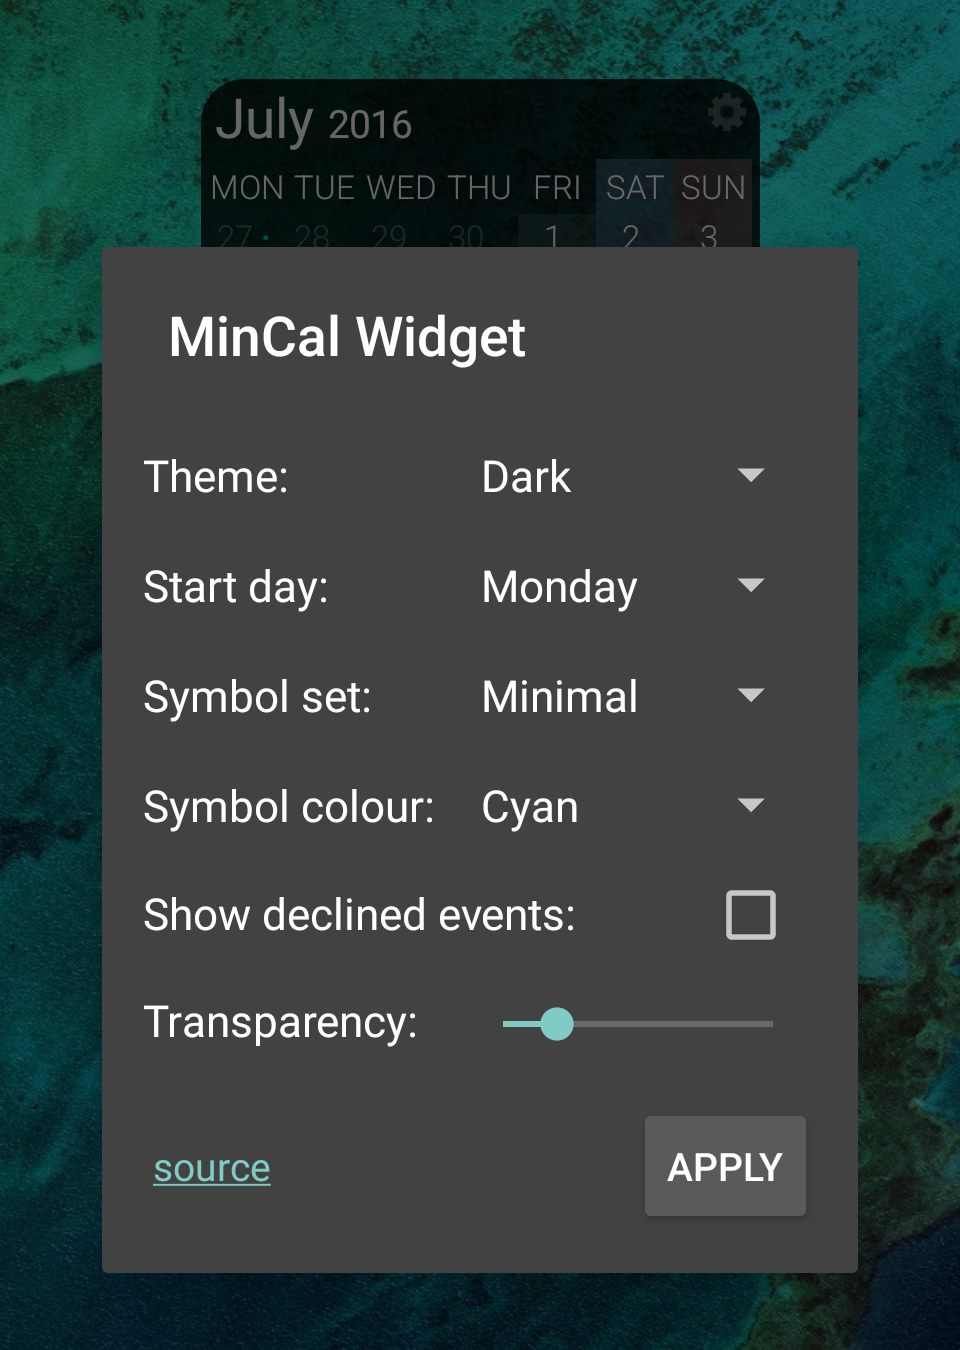
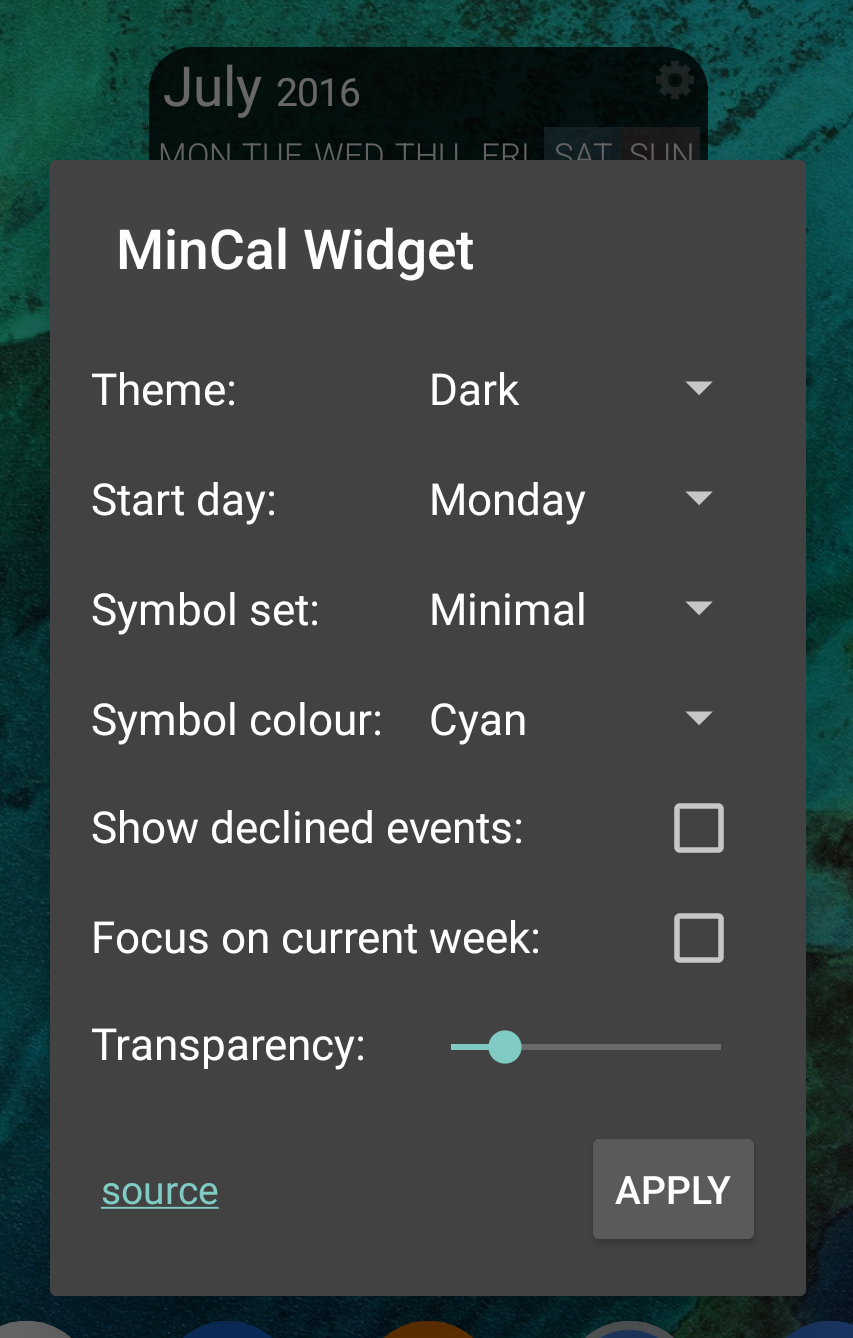
add focus on current week configuration

diff --git a/app/src/test/kotlin/cat/mvmike/minimalcalendarwidget/application/visual/draw/DrawDaysUseCaseTest.kt b/app/src/test/kotlin/cat/mvmike/minimalcalendarwidget/application/visual/draw/DrawDaysUseCaseTest.kt
@@ -73,6 +73,7 @@ internal class DrawDaysUseCaseTest : BaseTest() {
         mockWidgetShowDeclinedEvents()
         mockWidgetTransparency(Transparency(20))
         mockFirstDayOfWeek(DayOfWeek.MONDAY)
+        mockFocusOnCurrentWeek(false)
         mockWidgetTheme(Theme.DARK)
         mockInstancesSymbolSet(SymbolSet.MINIMAL)
         mockInstancesColour(Colour.CYAN)
@@ -109,6 +110,7 @@ internal class DrawDaysUseCaseTest : BaseTest() {
         verifyWidgetShowDeclinedEvents()
         verifyWidgetTransparency()
         verifyFirstDayOfWeek()
+        verifyFocusOnCurrentWeek()
         verifyWidgetTheme()
         verifyInstancesSymbolSet()
         verifyInstancesColour()
@@ -159,13 +161,25 @@ internal class DrawDaysUseCaseTest : BaseTest() {
     }
 
     @ParameterizedTest
-    @MethodSource("getSystemLocalDateAndFirstDayOfWeekWithExpectedInitialLocalDate")
-    fun getInitialLocalDate_shouldReturnWidgetInitialDate(
+    @MethodSource("getSystemLocalDateAndFirstDayOfWeekWithExpectedCurrentWeekFocusedInitialLocalDate")
+    fun getCurrentWeekFocusedInitialLocalDate_shouldReturnWidgetInitialDate(
         systemLocalDate: LocalDate,
         firstDayOfWeek: DayOfWeek,
         expectedInitialLocalDate: LocalDate
     ) {
-        val result = DrawDaysUseCase.getInitialLocalDate(systemLocalDate, firstDayOfWeek)
+        val result = DrawDaysUseCase.getFocusedOnCurrentWeekInitialLocalDate(systemLocalDate, firstDayOfWeek)
+
+        assertThat(result).isEqualTo(expectedInitialLocalDate)
+    }
+
+    @ParameterizedTest
+    @MethodSource("getSystemLocalDateAndFirstDayOfWeekWithExpectedNaturalMonthInitialLocalDate")
+    fun getNaturalMonthInitialLocalDate_shouldReturnWidgetInitialDate(
+        systemLocalDate: LocalDate,
+        firstDayOfWeek: DayOfWeek,
+        expectedInitialLocalDate: LocalDate
+    ) {
+        val result = DrawDaysUseCase.getNaturalMonthInitialLocalDate(systemLocalDate, firstDayOfWeek)
 
         assertThat(result).isEqualTo(expectedInitialLocalDate)
     }
@@ -425,8 +439,67 @@ internal class DrawDaysUseCaseTest : BaseTest() {
         .toInstant(zoneOffset)
 
 
+    @Suppress("unused")
+    private fun getSystemLocalDateAndFirstDayOfWeekWithExpectedCurrentWeekFocusedInitialLocalDate() = Stream.of(
+        Arguments.of(
+            LocalDate.of(2022, 2, 24),
+            DayOfWeek.MONDAY,
+            LocalDate.of(2022, 2, 14)
+        ),
+        Arguments.of(
+            LocalDate.of(2022, 2, 27),
+            DayOfWeek.MONDAY,
+            LocalDate.of(2022, 2, 14)
+        ),
+        Arguments.of(
+            LocalDate.of(2022, 2, 28),
+            DayOfWeek.MONDAY,
+            LocalDate.of(2022, 2, 21)
+        ),
+        Arguments.of(
+            LocalDate.of(2022, 2, 28),
+            DayOfWeek.TUESDAY,
+            LocalDate.of(2022, 2, 15)
+        ),
+        Arguments.of(
+            LocalDate.of(2022, 3, 1),
+            DayOfWeek.TUESDAY,
+            LocalDate.of(2022, 2, 22)
+        ),
+        Arguments.of(
+            LocalDate.of(2022, 1, 1),
+            DayOfWeek.WEDNESDAY,
+            LocalDate.of(2021, 12, 22)
+        ),
+        Arguments.of(
+            LocalDate.of(2022, 1, 1),
+            DayOfWeek.SATURDAY,
+            LocalDate.of(2021, 12, 25)
+        ),
+        Arguments.of(
+            LocalDate.of(2022, 2, 20),
+            DayOfWeek.SUNDAY,
+            LocalDate.of(2022, 2, 13)
+        ),
+        Arguments.of(
+            LocalDate.of(2022, 2, 25),
+            DayOfWeek.SUNDAY,
+            LocalDate.of(2022, 2, 13)
+        ),
+        Arguments.of(
+            LocalDate.of(2022, 2, 26),
+            DayOfWeek.SUNDAY,
+            LocalDate.of(2022, 2, 13)
+        ),
+        Arguments.of(
+            LocalDate.of(2022, 2, 27),
+            DayOfWeek.SUNDAY,
+            LocalDate.of(2022, 2, 20)
+        )
+    )
+
     @Suppress("unused", "LongMethod")
-    private fun getSystemLocalDateAndFirstDayOfWeekWithExpectedInitialLocalDate() = Stream.of(
+    private fun getSystemLocalDateAndFirstDayOfWeekWithExpectedNaturalMonthInitialLocalDate() = Stream.of(
         Arguments.of(
             LocalDate.of(2018, 1, 26),
             DayOfWeek.MONDAY,

diff --git a/app/src/main/kotlin/cat/mvmike/minimalcalendarwidget/application/visual/draw/DrawDaysUseCase.kt b/app/src/main/kotlin/cat/mvmike/minimalcalendarwidget/application/visual/draw/DrawDaysUseCase.kt
@@ -26,8 +26,6 @@ object DrawDaysUseCase {
 
     private const val MONTH_FIRST_DAY = 1
 
-    private const val MAXIMUM_DAYS_IN_MONTH = 31
-
     private const val NUM_WEEKS = 6
 
     private const val DAYS_IN_WEEK = 7
@@ -36,26 +34,28 @@ object DrawDaysUseCase {
 
     fun execute(context: Context, widgetRemoteView: RemoteViews, format: Format) {
         val systemLocalDate: LocalDate = SystemResolver.getSystemLocalDate()
+        val firstDayOfWeek = EnumConfiguration.FirstDayOfWeek.get(context)
+        val initialLocalDate = when(Configuration.WidgetFocusOnCurrentWeek.get(context)) {
+            true -> getFocusedOnCurrentWeekInitialLocalDate(systemLocalDate, firstDayOfWeek)
+            else -> getNaturalMonthInitialLocalDate(systemLocalDate, firstDayOfWeek)
+        }
+
         val instanceSet = getInstances(
             context = context,
             from = systemLocalDate.minusDays(INSTANCES_QUERY_DAYS_SPAN),
             to = systemLocalDate.plusDays(INSTANCES_QUERY_DAYS_SPAN)
         )
-        val firstDayOfWeek = EnumConfiguration.FirstDayOfWeek.get(context)
         val widgetTheme = EnumConfiguration.WidgetTheme.get(context)
         val instancesSymbolSet = EnumConfiguration.InstancesSymbolSet.get(context)
         val instancesColour = EnumConfiguration.InstancesColour.get(context)
         val transparency = Configuration.WidgetTransparency.get(context)
         val showDeclinedEvents = Configuration.WidgetShowDeclinedEvents.get(context)
-        val initialLocalDate = getInitialLocalDate(systemLocalDate, firstDayOfWeek)
 
         for (week in 0 until NUM_WEEKS) {
             val weekRow: RemoteViews = SystemResolver.createDaysRow(context)
 
             for (weekDay in 0 until DAYS_IN_WEEK) {
-                val currentDay = Day(
-                    dayLocalDate = initialLocalDate.toCurrentWeekAndWeekDay(week, weekDay)
-                )
+                val currentDay = Day(initialLocalDate.toCurrentWeekAndWeekDay(week, weekDay))
                 val dayCell = widgetTheme.getCellDay(
                     isToday = currentDay.isToday(systemLocalDate),
                     inMonth = currentDay.isInMonth(systemLocalDate),
@@ -96,15 +96,21 @@ object DrawDaysUseCase {
         }
     }
 
-    internal fun getInitialLocalDate(systemLocalDate: LocalDate, firstDayOfWeek: DayOfWeek): LocalDate {
+    internal fun getFocusedOnCurrentWeekInitialLocalDate(systemLocalDate: LocalDate, firstDayOfWeek: DayOfWeek): LocalDate {
+        val systemLocalDateWithFirstDayOfWeek = systemLocalDate.with(firstDayOfWeek)
+        return when (systemLocalDateWithFirstDayOfWeek.isAfter(systemLocalDate)) {
+            true -> systemLocalDateWithFirstDayOfWeek.minusWeeks(2)
+            false -> systemLocalDateWithFirstDayOfWeek.minusWeeks(1)
+        }
+    }
+
+    internal fun getNaturalMonthInitialLocalDate(systemLocalDate: LocalDate, firstDayOfWeek: DayOfWeek): LocalDate {
         val firstDayOfMonth = LocalDate.of(systemLocalDate.year, systemLocalDate.monthValue, MONTH_FIRST_DAY)
         val difference = firstDayOfWeek.ordinal - firstDayOfMonth[ChronoField.DAY_OF_WEEK] + 1
         val adjustedInitialLocalDate = firstDayOfMonth.plus(difference.toLong(), ChronoUnit.DAYS)
 
-        // overlap month manually if dayOfMonth is in current month and greater than 1
-        val dayOfMonth = adjustedInitialLocalDate[ChronoField.DAY_OF_MONTH]
-        return when {
-            dayOfMonth > MONTH_FIRST_DAY && dayOfMonth < MAXIMUM_DAYS_IN_MONTH / 2 -> adjustedInitialLocalDate.minusDays(DAYS_IN_WEEK.toLong())
+        return when (adjustedInitialLocalDate[ChronoField.DAY_OF_MONTH]) {
+            in 2..15 -> adjustedInitialLocalDate.minusDays(DAYS_IN_WEEK.toLong())
             else -> adjustedInitialLocalDate
         }
     }

diff --git a/app/src/main/kotlin/cat/mvmike/minimalcalendarwidget/infrastructure/activity/ConfigurationActivity.kt b/app/src/main/kotlin/cat/mvmike/minimalcalendarwidget/infrastructure/activity/ConfigurationActivity.kt
@@ -60,6 +60,8 @@ class ConfigurationActivity : AppCompatActivity() {
         }
         Configuration.WidgetShowDeclinedEvents.resource.getCheckBox().isChecked =
             Configuration.WidgetShowDeclinedEvents.get(applicationContext)
+        Configuration.WidgetFocusOnCurrentWeek.resource.getCheckBox().isChecked =
+            Configuration.WidgetFocusOnCurrentWeek.get(applicationContext)
         Configuration.WidgetTransparency.resource.getSeekBar().progress =
             Configuration.WidgetTransparency.get(applicationContext).percentage
     }
@@ -78,6 +80,10 @@ class ConfigurationActivity : AppCompatActivity() {
         Configuration.WidgetShowDeclinedEvents.set(
             applicationContext,
             Configuration.WidgetShowDeclinedEvents.resource.getCheckBox().isChecked
+        )
+        Configuration.WidgetFocusOnCurrentWeek.set(
+            applicationContext,
+            Configuration.WidgetFocusOnCurrentWeek.resource.getCheckBox().isChecked
         )
         MonthWidget.redraw(applicationContext)
     }

diff --git a/app/src/test/kotlin/cat/mvmike/minimalcalendarwidget/BaseTest.kt b/app/src/test/kotlin/cat/mvmike/minimalcalendarwidget/BaseTest.kt
@@ -175,6 +175,25 @@ open class BaseTest {
         }
     }
 
+    protected fun mockFocusOnCurrentWeek(enabled: Boolean) {
+        every {
+            sharedPreferences.getBoolean(
+                Configuration.WidgetFocusOnCurrentWeek.key,
+                Configuration.WidgetFocusOnCurrentWeek.defaultValue
+            )
+        } returns enabled
+    }
+
+    protected fun verifyFocusOnCurrentWeek() {
+        verifySharedPreferencesAccess()
+        verify {
+            sharedPreferences.getBoolean(
+                Configuration.WidgetFocusOnCurrentWeek.key,
+                Configuration.WidgetFocusOnCurrentWeek.defaultValue
+            )
+        }
+    }
+
     protected fun mockInstancesColour(colour: Colour) {
         every {
             sharedPreferences.getString(

diff --git a/app/src/main/kotlin/cat/mvmike/minimalcalendarwidget/domain/configuration/Configuration.kt b/app/src/main/kotlin/cat/mvmike/minimalcalendarwidget/domain/configuration/Configuration.kt
@@ -48,6 +48,18 @@ sealed class Configuration<E>(
         override fun set(context: Context, value: Boolean) =
             getConfiguration(context).edit().putBoolean(key, value).apply()
     }
+
+    object WidgetFocusOnCurrentWeek : Configuration<Boolean>(
+        key = "WIDGET_FOCUS_ON_CURRENT_WEEK",
+        resource = R.id.focus_on_current_weekCheckBox,
+        defaultValue = false
+    ) {
+        override fun get(context: Context) =
+            getConfiguration(context).getBoolean(key, defaultValue)
+
+        override fun set(context: Context, value: Boolean) =
+            getConfiguration(context).edit().putBoolean(key, value).apply()
+    }
 }
 
 sealed class EnumConfiguration<E : Enum<E>>(

diff --git a/README.md b/README.md
@@ -5,7 +5,14 @@ Minimal calendar widget that's always on current date's month
 * Displays all events from your calendars with a symbol set (high number becomes generic)
 * Configuration accessible on widget's top right corner
 * Pressing on any other part of the widget opens calendar application
-* Configurable widget theme, transparency, include declined events, start day of the week,  symbol set and its colour
+* Configurable:
+    - widget theme
+    - transparency
+    - include declined events
+    - focus on current week
+    - start day of the week
+    - symbol set type
+    - symbol set colour
 
 ## Installation
 
